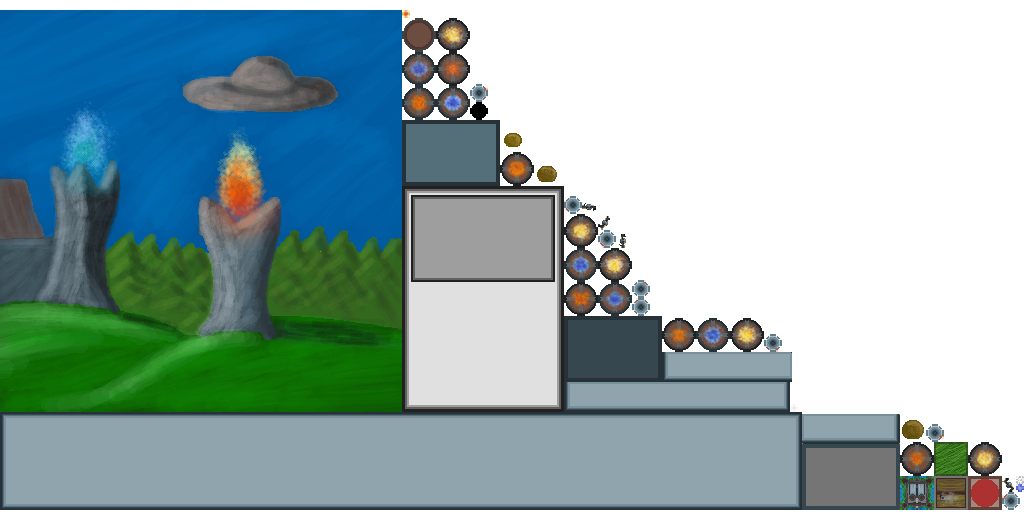
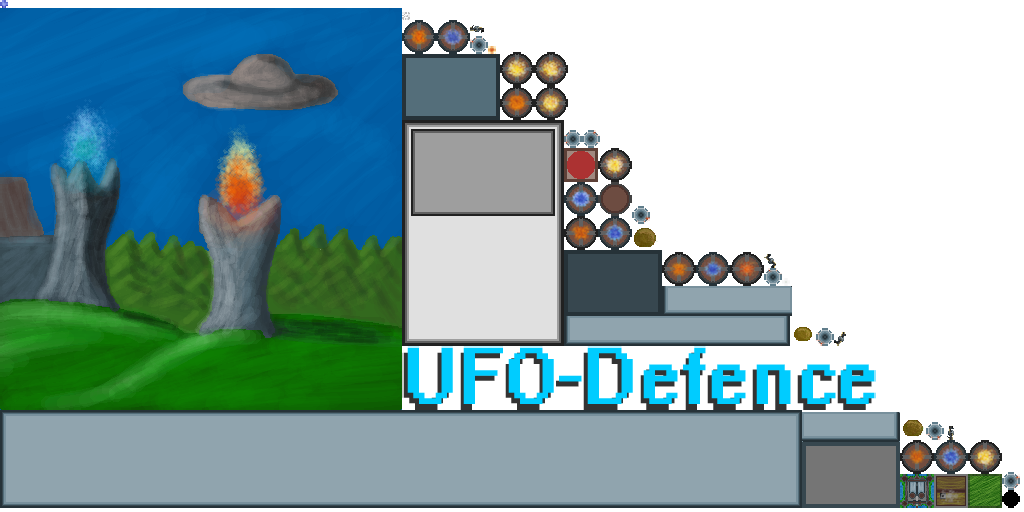
.

diff --git a/LudumDare41/core/src/com/svarttand/ld41/sprites/MobHandler.java b/LudumDare41/core/src/com/svarttand/ld41/sprites/MobHandler.java
@@ -22,14 +22,17 @@ public class MobHandler {
 	private int waveNumber;
 	private MobWave currentWave;
 	
+	private float textCounter;
+	
 	public MobHandler(PlayState state) {
 		mobList = new ArrayList<Mob>();
 		sum = WAVE_FREQUENCY;
 		this.state = state;
 		waveNumber = 1;
-		currentWave = new MobWave(waveNumber, this,true);
-		waveNumber = 2;
+		currentWave = null;
+		waveNumber = 1;
 		random = new Random();
+		
 	}
 	
 	public void addMob(MobType type, CardType buff){
@@ -66,16 +69,44 @@ public class MobHandler {
 	}
 	
 	public void update(float delta){
+		
 		sum -= delta;
-		currentWave.update(delta);
-		if (sum <= 0) {
+		if (currentWave == null && waveNumber == 1) {
+			textCounter+=delta;
 			
-			System.out.println(mobList.size());
-			currentWave = new MobWave(waveNumber, this, false);
+			if ((int)sum == WAVE_FREQUENCY - 40) {
+			}else if ((int)sum == WAVE_FREQUENCY - 35) {
+				state.getUI().addNewFloatingText("Good Luck!", Application.V_WIDTH*0.5f, Application.V_HEIGHT*0.5f, 5, false, 1);
+			}else if ((int)sum == WAVE_FREQUENCY - 25) {
+				state.getUI().addNewFloatingText("Population is needed to man the towers, \nYou get more Population by building Houses", Application.V_WIDTH*0.5f, Application.V_HEIGHT*0.7f, 9, false, 1);
+			}else if ((int)sum == WAVE_FREQUENCY - 15) {
+				state.getUI().addNewFloatingText("$ is used for Buying and upgrading buildings, \n$ is earned by killing enemies", Application.V_WIDTH*0.5f, Application.V_HEIGHT*0.7f, 7, false, 1);
+			}else if ((int)sum == WAVE_FREQUENCY - 6) {
+				state.getUI().addNewFloatingText("There Are Two Resources\n$ and Population(Pop)", Application.V_WIDTH*0.5f, Application.V_HEIGHT*0.7f, 7, false, 1);
+			}else if ((int)sum == WAVE_FREQUENCY-1) {
+				state.getUI().addNewFloatingText("Welcome To The Game! \nYour Goal is to Defend the Castle", Application.V_WIDTH*0.5f, Application.V_HEIGHT*0.7f, 4, false, 1);
+			}
+				
+	
+			
+			
+		}else{
+			currentWave.update(delta);
+			
+		}
+		if (sum <= 0) {
+			if (waveNumber == 1) {
+				currentWave = new MobWave(waveNumber, this, true);
+			}else{
+				currentWave = new MobWave(waveNumber, this, false);
+			}
+			
 			state.getUI().addNewFloatingText(currentWave.getCardType().getExplanation(), Application.V_WIDTH*0.5f, Application.V_HEIGHT*0.7f, 10, false, 1);
 			waveNumber++;
 			sum = WAVE_FREQUENCY;
 		}
+		
+		
 		for (int i = 0; i < mobList.size(); i++) {
 			mobList.get(i).update(delta);
 		}

diff --git a/LudumDare41/core/src/com/svarttand/ld41/ui/PlayUI.java b/LudumDare41/core/src/com/svarttand/ld41/ui/PlayUI.java
@@ -61,6 +61,7 @@ public class PlayUI {
 	private Label hpText;
 	private Label nextWave;
 	private Label iceCost;
+	private Label castleText;
 	
 	private PlayState state;
 	
@@ -93,7 +94,7 @@ public class PlayUI {
 	    
 	    generateLabels();
 	    
-	    buildButton = new TextButton("Build Tower", style);
+	    buildButton = new TextButton("Build Tower\nLong Range", style);
 	    buildButton.setPosition(Application.V_WIDTH*0.01f, Application.V_HEIGHT*0.01f);
 	    buildButton.addListener( new ClickListener() {
 	         @Override
@@ -109,7 +110,7 @@ public class PlayUI {
 	    stage.addActor(buildButton);
 	    
 	    
-	    buildButton2 = new TextButton("Build \nFire-Tower", style);
+	    buildButton2 = new TextButton("Build \nFire-Tower\nShort Range", style);
 	    buildButton2.setPosition(Application.V_WIDTH*0.14f, Application.V_HEIGHT*0.01f);
 	    buildButton2.addListener( new ClickListener() {
 	         @Override
@@ -124,7 +125,7 @@ public class PlayUI {
 	        });
 	    stage.addActor(buildButton2);
 	    
-	    buildIce = new TextButton("Build \nIce-Tower", style);
+	    buildIce = new TextButton("Build \nIce-Tower\nSlows enemies", style);
 	    buildIce.setPosition(Application.V_WIDTH*0.27f, Application.V_HEIGHT*0.01f);
 	    buildIce.addListener( new ClickListener() {
 	         @Override
@@ -208,6 +209,9 @@ public class PlayUI {
 		hpText = new Label("" + hp + "/" + MAX_HP, labelStyle);
 		hpText.setPosition((Application.V_WIDTH*0.84f - hpText.getWidth()), Application.V_HEIGHT*0.045f);
 		
+		castleText = new Label("Castle Health:", labelStyle);
+		castleText.setPosition((Application.V_WIDTH*0.87f - castleText.getWidth()), Application.V_HEIGHT*0.08f);
+		
 		stage.addActor(Tower1Cost);
 		stage.addActor(Tower2Cost);
 		stage.addActor(HouseCost);
@@ -217,6 +221,7 @@ public class PlayUI {
 		stage.addActor(nextWave);
 		stage.addActor(hpText);
 		stage.addActor(iceCost);
+		stage.addActor(castleText);
 	}
 	public void updateTimer(float time){
 		nextWave.setText("Next Wave in: " +(int) time);

diff --git a/LudumDare41/core/src/com/svarttand/ld41/ui/MenuUI.java b/LudumDare41/core/src/com/svarttand/ld41/ui/MenuUI.java
@@ -58,7 +58,7 @@ public class MenuUI {
 	    gameOverText = new Label("GAME OVER!" , labelStyle);
 	    gameOverText.setPosition(Application.V_WIDTH *0.5f - gameOverText.getWidth()*0.5f, Application.V_HEIGHT*0.3f);
 	    stage.addActor(gameOverText);
-	    //gameOverText.setVisible(false);
+	    gameOverText.setVisible(false);
 	    
 	    playButton = new TextButton("Play", style);
 	    playButton.setPosition(Application.V_WIDTH*0.5f-playButton.getWidth()*0.5f, Application.V_HEIGHT*0.15f -playButton.getHeight()*0.5f);

diff --git a/LudumDare41/core/src/com/svarttand/ld41/states/MenuState.java b/LudumDare41/core/src/com/svarttand/ld41/states/MenuState.java
@@ -50,6 +50,7 @@ public class MenuState extends State {
         Gdx.gl.glClear(GL20.GL_COLOR_BUFFER_BIT);
 		batch.begin();
 		batch.draw(textureAtlas.findRegion("Background"), 0, 0, Application.V_WIDTH, Application.V_HEIGHT);
+		batch.draw(textureAtlas.findRegion("Title"), Application.V_WIDTH*0.2f, Application.V_HEIGHT*0.7f);
 		batch.end();
 		ui.getStage().draw();
 
